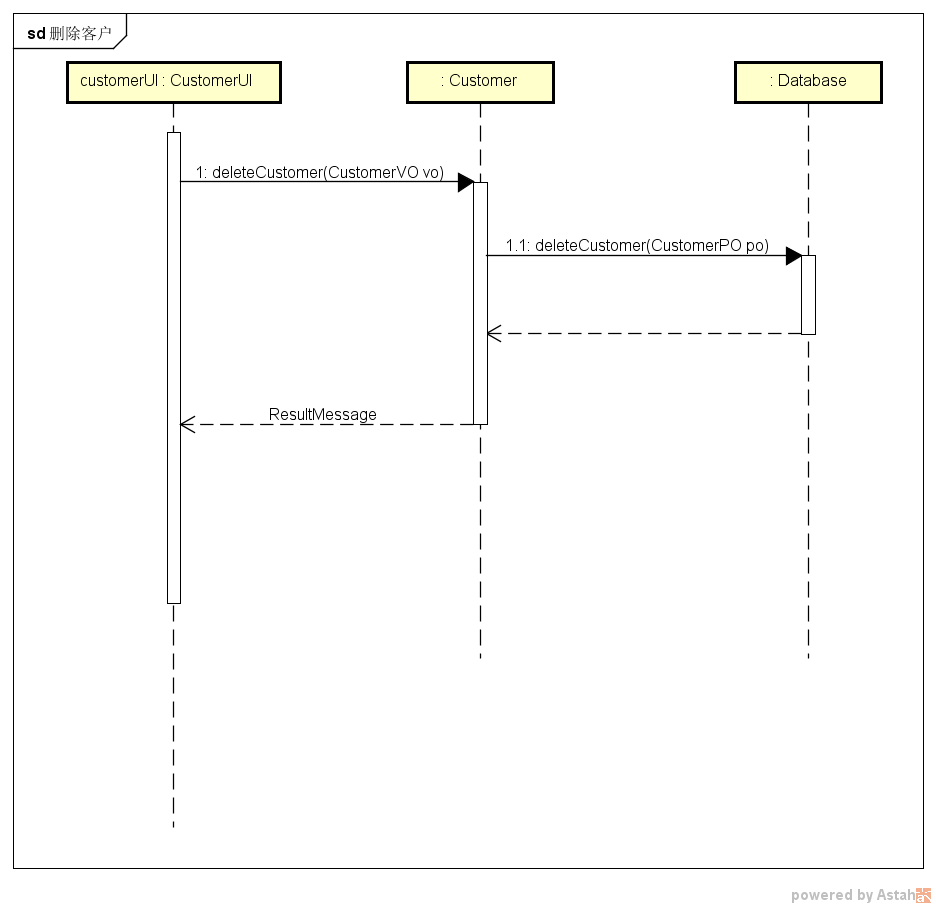
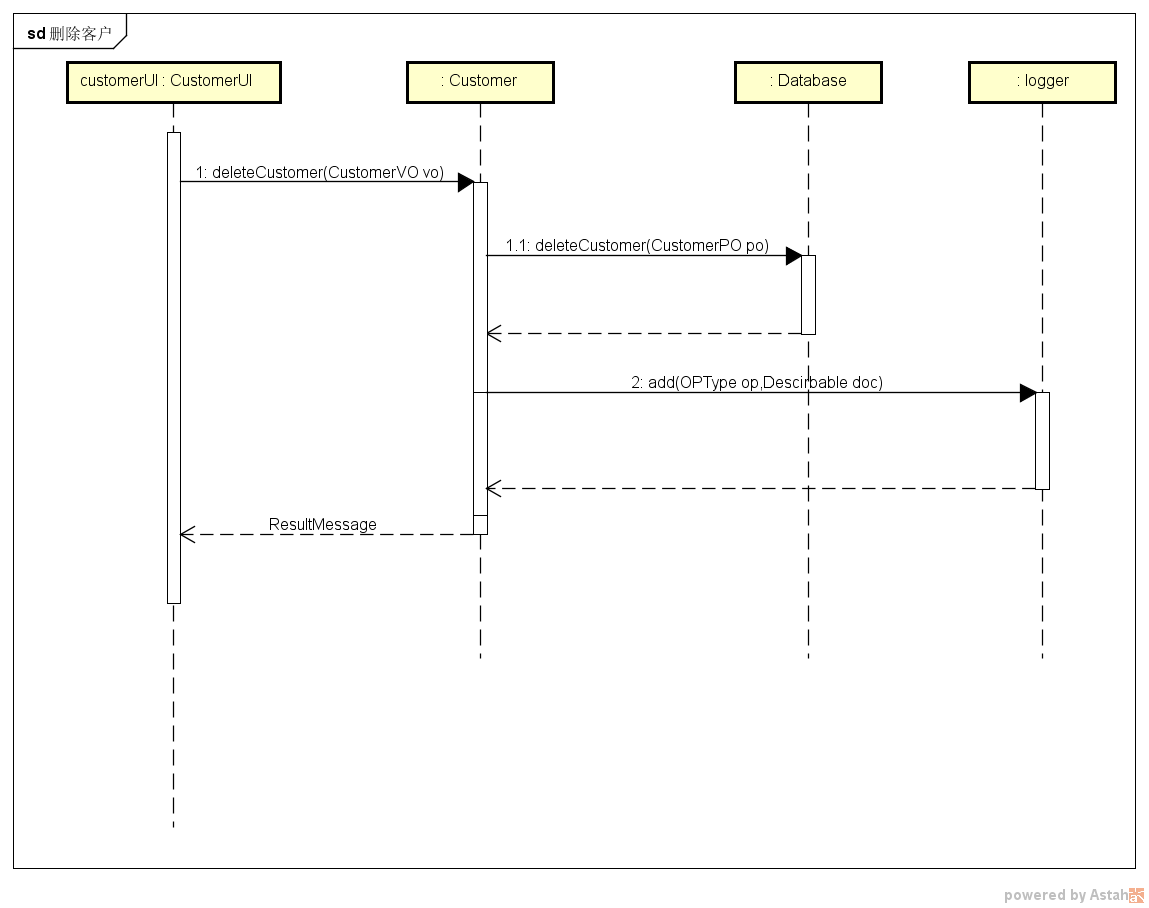
移动图片位置，增加类

diff --git a/Server/src/nju/lighting/bl/customerbl/CustomerController.java b/Server/src/nju/lighting/bl/customerbl/CustomerController.java
@@ -1,0 +1,64 @@
+package nju.lighting.bl.customerbl;
+
+import nju.lighting.blservice.customerblservice.CustomerBLService;
+import nju.lighting.vo.CustomerVO;
+import nju.lighting.vo.ResultMessage;
+import shared.CustomerType;
+
+import java.rmi.RemoteException;
+import java.util.ArrayList;
+
+public class CustomerController implements CustomerBLService{
+
+
+    //得到客户列表
+    public ArrayList<CustomerVO> getCustomerList () throws RemoteException{
+        return null;
+    }
+
+    //请求增加客户，得到是否可修改应收额度
+    public boolean askForCreateCustomer(String userId) throws RemoteException{
+        return true;
+    }
+
+    //增加客户
+    public ResultMessage createCustomer(CustomerVO vo) throws RemoteException{
+        return ResultMessage.SUCCESS;
+    }
+
+    //查找客户
+    public ArrayList<CustomerVO> findCustomer(String keyword) throws RemoteException{
+        return null;
+    }
+
+    //删除客户
+    public ResultMessage deleteCustomer(CustomerVO customer) throws RemoteException{
+        return ResultMessage.SUCCESS;
+    }
+
+    //更改客户信息
+    public ResultMessage modifyCustomer(CustomerVO customer) throws RemoteException{
+        return ResultMessage.SUCCESS;
+    }
+
+    //根据客户ID寻找客户
+    public CustomerVO findCustomerByID(int id) throws RemoteException{
+        return null;
+    }
+
+    //根据客户类型寻找客户
+    public ArrayList<CustomerVO> findCustomerByType(CustomerType type) throws RemoteException{
+        return null;
+    }
+
+    //获取下一位客户编号
+    public int getNextCustomerID() throws  RemoteException{
+        return 000001;
+    }
+
+    //请求修改客户，得到是否可修改应收额度
+    public boolean askForModifyCustomer(String userId) throws  RemoteException{
+        return true;
+    }
+
+}

diff --git a/Server/src/nju/lighting/bl/customerbl/customer.java b/Server/src/nju/lighting/bl/customerbl/customer.java
@@ -1,0 +1,4 @@
+package nju.lighting.bl.customerbl;
+
+public class customer {
+}
